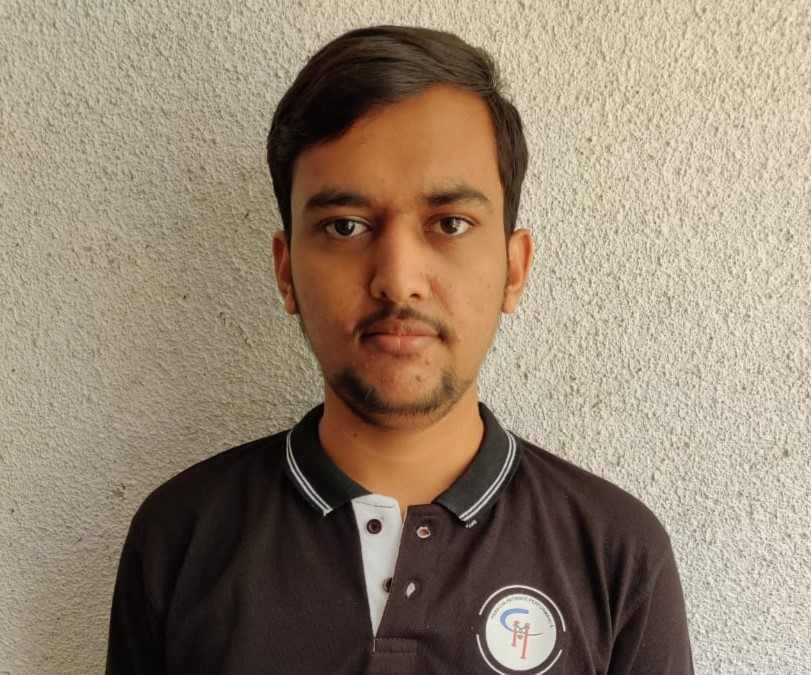
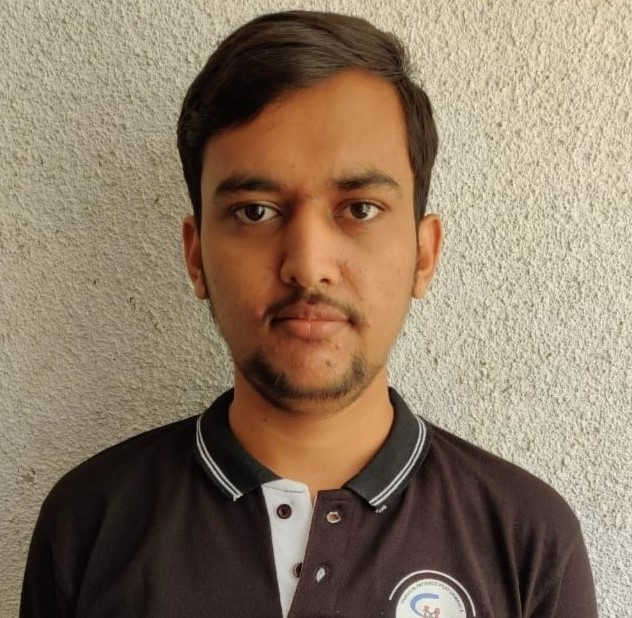
about page updated

diff --git a/index.html b/index.html
@@ -20,6 +20,46 @@
     <meta property="og:locale" content="en">
     <script src="static/js/main.js">
     </script>
+    <style type="text/css">
+        .exams{
+            display: grid;
+            grid-gap: 3px;
+            position: relative;
+            z-index: 100;
+        }
+        .extend{
+            display: none;
+            background-color: orange;
+        }
+
+        .exams:hover .extend {
+            text-align: center;
+            display: grid;
+            position: absolute;
+            width: 120px;
+            grid-gap: 9px;
+            top: 30px;
+            left: -43px;
+            background: rgb(127, 255, 212);
+            padding: 10px;
+            border-radius: 5px;
+        }
+        .extend {
+            display: none;
+            background-color: rgba(76, 175, 80, 0);
+            transition: all .5s ease;
+        }
+        .extend::before{
+            content:'';
+            position: absolute;
+            top: 13px;
+            background-color: indianred;
+            margin-left: -5px;
+            top: -9px;
+            left: 45%;
+        }
+
+    </style>
 </head>
 
 <body>
@@ -50,6 +90,20 @@
                         <li class="link one"><a href="/">Coding Hub</a></li>
                         <div class="big-menu">
                             <div class="left">
+                                <div class="exams">    
+                                <li class="exam">Exam</li>
+                                <div class="extend">
+                                    <a href="/crosscode.html">
+                                    <li>Cross Code</li>
+                                    </a>
+                                    <a href="/codebuster.html">
+                                    <li>Code Buster</li>
+                                    </a>
+                                    <a href="/youonweb.html">
+                                    <li>You On Web</li>
+                                    </a>
+                                </div>
+                            </div>
                                 <a href="/events.html">
                                     <li class="link two">Events</li>
                                 </a>

diff --git a/about.html b/about.html
@@ -77,25 +77,25 @@
                         <img src="static/pics/prasad.png" alt="PRASAD TELI">
                     </div>
                     <div class="wrapper">
-                        <h3>PRASAD TELI</h3>
+                        <h3>Prof. PRASAD TELI</h3>
                         <div class="icons"></div>
-                        <a href="#">
+                        <!--<a href="#">
                             <p>Linkedin</p>
-                        </a>
+                        </a>-->
                     </div>
                     <h2 class="role">Mentor</h2>
                 </div>
 
                 <div class="card">
                     <div class="image">
-                        <img src="static/pics/dummy.png" alt="GAURI GUNJAN">
+                        <img src="static/pics/gauri.jpg" alt="GAURI GUNJAN">
                     </div>
                     <div class="wrapper">
-                        <h3>GAURI GUNJAN</h3>
+                        <h3>Prof. GAURI GUNJAl</h3>
                         <div class="icons"></div>
-                        <a href="#">
+                        <!--<a href="#">
                             <p>Linkedin</p>
-                        </a>
+                        </a>-->
                     </div>
                     <h2 class="role">Mentor</h2>
                 </div>
@@ -197,7 +197,7 @@
 
                 <div class="card">
                     <div class="image">
-                        <img src="static/pics/dummy.png" alt="UTKARSH">
+                        <img src="static/pics/utkarsh1.jpg" alt="UTKARSH">
                     </div>
                     <div class="wrapper">
                         <h3>UTKARSH</h3>
@@ -220,7 +220,7 @@
 
                 <div class="card">
                     <div class="image">
-                        <img src="static/pics/dummy.png" alt="Mihir Jain">
+                        <img src="static/pics/mihir1.jpg" alt="Mihir Jain">
                     </div>
                     <div class="wrapper">
                         <h3>Mihir Jain</h3>

diff --git a/static/css/about.css b/static/css/about.css
@@ -392,6 +392,8 @@ section.members {
     position: relative;
     grid-template-rows: 81% auto;
     text-align: center;
+    transition: all .5s ease;
+    box-shadow: 4px 3px #00000042;
 }
 
 .image {
@@ -411,10 +413,9 @@ section.members {
     position: absolute;
     width: 100%;
     height: 81%;
-    background-image: linear-gradient(-45deg, rgba(16, 204, 194, 0.4), rgba(18, 68, 209, 0.42));
+    background-image: linear-gradient(45deg, rgba(16, 204, 194, 0.4), rgba(18, 68, 209, 0.42));
     font-size: 1.5em;
     text-decoration: none;
-    transition: all 1.2s ease-in-out;
     text-align: center;
 }
 
